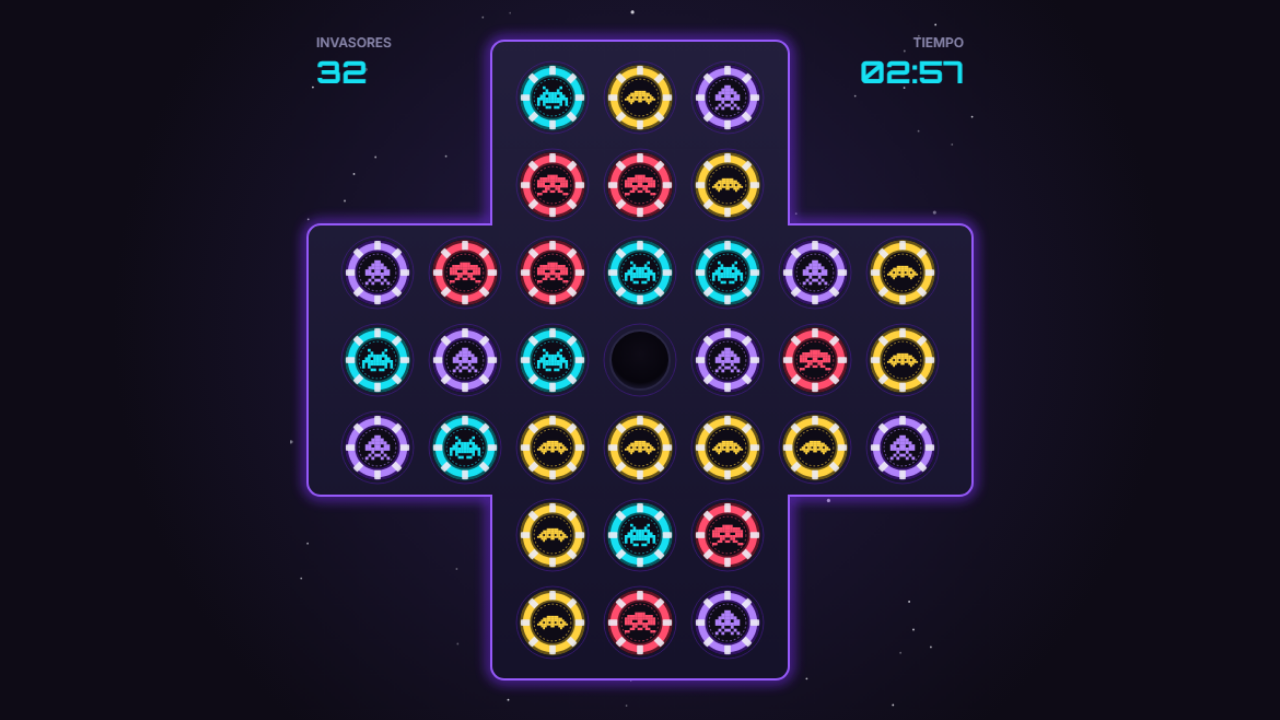
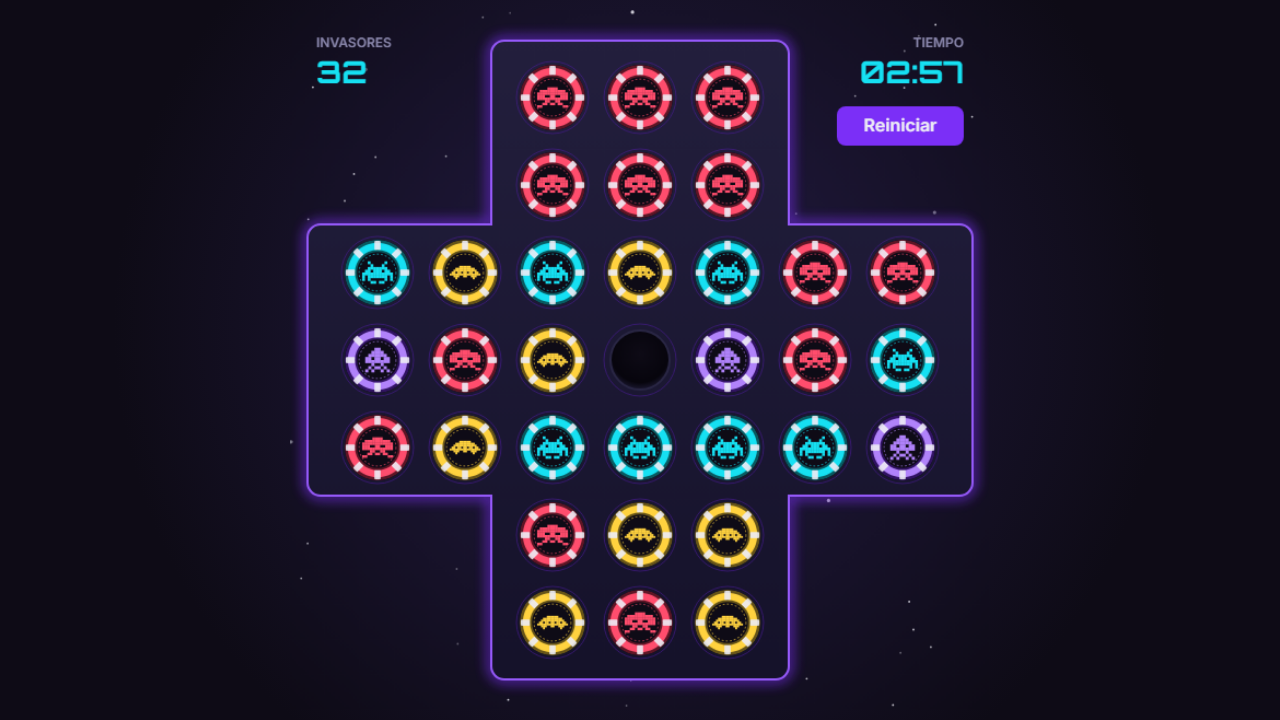
TPE4: botones Jugar y Reiniciar dibujados en el canvas

diff --git a/TP4/EntregaFinal/js/peg/Controlador.js b/TP4/EntregaFinal/js/peg/Controlador.js
@@ -21,21 +21,21 @@ const DURACION_VUELTA = 0.2; // segundos que tarda una ficha soltada en lugar in
 const DURACION_EXPLOSION = 0.4; // segundos de la explosión del invasor comido
 
 // Carteles del canvas
-const MENSAJE_INICIO = { titulo: "Invasión Pixel", detalle: "Apretá Jugar para empezar", tipo: "inicio" };
+const MENSAJE_INICIO = { titulo: "Invasión Pixel", detalle: "Dejá un solo invasor antes de que se acabe el tiempo", tipo: "inicio", boton: "Jugar" };
 
 class Controlador {
-  // Recibe la Vista, el canvas y el botón Jugar/Reiniciar. El juego arranca esperando:
-  // tablero vacío (sin Tablero) y el cartel de inicio.
-  constructor(vista, canvas, botonJugar) {
+  // Recibe la Vista y el canvas. El juego arranca esperando:
+  // tablero vacío (sin Tablero) y el cartel de inicio con el botón Jugar.
+  constructor(vista, canvas) {
     this.vista = vista;
     this.canvas = canvas;
-    this.botonJugar = botonJugar;
 
     this.tablero = null;
     this.estado = "esperando"; // "esperando" | "jugando" | "terminado"
     this.arrastre = null; // { ficha, x, y, destinos, sobre } mientras se arrastra una ficha
     this.volviendo = null; // { ficha, desdeX, desdeY, x, y, inicio } ficha que vuelve a su lugar
     this.sobre = null; // ficha bajo el mouse (se resalta para avisar que se puede agarrar)
+    this.botonSobre = null; // "panel", "hud" o null: botón del canvas bajo el mouse
     this.explosiones = []; // { x, y, tipo, inicio } invasores recién comidos
     this.inicio = 0; // momento en que arrancó la partida (en ms, como lo da requestAnimationFrame)
     this.restante = TIEMPO_LIMITE;
@@ -52,7 +52,6 @@ class Controlador {
     // move y up van en window: si el mouse se sale del canvas con la ficha, se sigue arrastrando
     window.addEventListener("mousemove", (e) => this.onMouseMove(e));
     window.addEventListener("mouseup", (e) => this.onMouseUp(e));
-    this.botonJugar.addEventListener("click", () => this.reiniciar());
     requestAnimationFrame(this.loop);
   }
 
@@ -67,7 +66,7 @@ class Controlador {
     this.inicio = performance.now();
     this.restante = TIEMPO_LIMITE;
     this.mensaje = null;
-    this.botonJugar.textContent = "Reiniciar";
+    this.botonSobre = null;
   }
 
   // Posición del mouse en píxeles DEL CANVAS. Es la misma cuenta que piezaEn de Blocka:
@@ -88,11 +87,25 @@ class Controlador {
     return this.tablero.fichaEn(fila, columna);
   }
 
-  // mousedown: encontrar la ficha y levantarla (feedback: se agranda y tiene sombra)
-  // y calcular a dónde puede saltar (para dibujar los hints)
+  // El botón del canvas que está en (x, y), o null. Solo cuenta el que se está viendo:
+  // con cartel, el del cartel ("panel"); jugando, el Reiniciar de abajo del reloj ("hud").
+  botonEn(x, y) {
+    if (this.mensaje) return Vista.dentroDe(BOTONES.panel, x, y) ? "panel" : null;
+    if (this.estado === "jugando") return Vista.dentroDe(BOTONES.hud, x, y) ? "hud" : null;
+    return null;
+  }
+
+  // mousedown: primero se fija si se tocó un botón (Jugar / Reiniciar → partida nueva).
+  // Si no, encuentra la ficha y la levanta (feedback: se agranda y tiene sombra)
+  // y calcula a dónde puede saltar (para dibujar los hints).
   onMouseDown(e) {
-    if (this.estado !== "jugando" || e.button !== 0) return; // solo clic izquierdo
+    if (e.button !== 0) return; // solo clic izquierdo
     const { x, y } = this.posicionMouse(e);
+    if (this.botonEn(x, y)) {
+      this.reiniciar();
+      return;
+    }
+    if (this.estado !== "jugando") return;
     const ficha = this.fichaEn(x, y);
     if (!ficha || ficha === this.volviendo?.ficha) return;
 
@@ -103,9 +116,9 @@ class Controlador {
   }
 
   // mousemove: si se arrastra una ficha, sigue al mouse y se marca el destino que tiene abajo.
-  // Si no se arrastra nada, solo se resalta la ficha bajo el mouse (cursor "manito").
+  // Si no se arrastra nada, se resalta lo que está bajo el mouse: un botón o una ficha
+  // (el cursor cambia a "mano" para avisar que se puede tocar o agarrar).
   onMouseMove(e) {
-    if (this.estado !== "jugando") return;
     const { x, y } = this.posicionMouse(e);
 
     if (this.arrastre) {
@@ -115,8 +128,11 @@ class Controlador {
       return;
     }
 
-    this.sobre = this.fichaEn(x, y);
-    this.canvas.style.cursor = this.sobre ? "grab" : "default";
+    this.botonSobre = this.botonEn(x, y);
+    this.sobre = this.estado === "jugando" && !this.botonSobre ? this.fichaEn(x, y) : null;
+    if (this.botonSobre) this.canvas.style.cursor = "pointer";
+    else if (this.sobre) this.canvas.style.cursor = "grab";
+    else this.canvas.style.cursor = "default";
   }
 
   // mouseup: si se soltó sobre un destino válido, el Tablero hace el salto y se revisa
@@ -155,12 +171,14 @@ class Controlador {
         titulo: "¡Ganaste!",
         detalle: enElCentro ? "Perfecto: el último invasor quedó en el centro" : "Detuviste la invasión: quedó un solo invasor",
         tipo: "victoria",
+        boton: "Jugar de nuevo",
       });
     } else if (!this.tablero.hayMovimientos()) {
       this.terminar({
         titulo: "Sin movimientos",
-        detalle: `Quedaron ${cantidad} invasores. Apretá Reiniciar para volver a jugar`,
+        detalle: `Ningún invasor puede saltar. Quedaron ${cantidad}`,
         tipo: "derrota",
+        boton: "Jugar de nuevo",
       });
     }
   }
@@ -185,8 +203,9 @@ class Controlador {
       if (this.restante === 0) {
         this.terminar({
           titulo: "¡Se acabó el tiempo!",
-          detalle: `Quedaron ${this.tablero.cantidadFichas()} invasores. Apretá Reiniciar para volver a jugar`,
+          detalle: `Quedaron ${this.tablero.cantidadFichas()} invasores en el tablero`,
           tipo: "derrota",
+          boton: "Jugar de nuevo",
         });
       }
     }
@@ -203,6 +222,7 @@ class Controlador {
       tiempo,
       restante: this.restante,
       mensaje: this.mensaje,
+      botonSobre: this.botonSobre,
     });
     requestAnimationFrame(this.loop);
   }

diff --git a/TP4/EntregaFinal/js/peg/Vista.js b/TP4/EntregaFinal/js/peg/Vista.js
@@ -15,12 +15,21 @@ const MARGEN = 40;
 const LADO_CANVAS = MARGEN * 2 + CASILLA * TAMANIO;
 const RADIO_FICHA = 30;
 
+// Botones dibujados en el canvas (rectángulos: esquina de arriba a la izquierda + medidas).
+// panel: adentro del cartel de inicio/fin ("Jugar"). hud: abajo del reloj, mientras se juega ("Reiniciar").
+const BOTONES = {
+  panel: { x: 240, y: 500, ancho: 160, alto: 44 },
+  hud: { x: 500, y: 88, ancho: 116, alto: 36, texto: "Reiniciar" },
+};
+
 // Colores del Design System (base.css): el canvas no puede leer las variables CSS
 const COLOR_TEXTO = "#EDECF5"; // --texto
 const COLOR_TEXTO_SECUNDARIO = "#8B88AD"; // --texto-secundario
 const COLOR_SECUNDARIO = "#16E0F2"; // --secundario
 const COLOR_ERROR = "#FF4D6D"; // --error
 const COLOR_EXITO = "#3DDC97"; // --exito
+const COLOR_PRIMARIO = "#7B2FF7"; // --primario (botones)
+const COLOR_PRIMARIO_LUZ = "#9559F9"; // --primario-luz-20 (botón con el mouse encima)
 
 // Color de cada invasor: se usa si su imagen no cargó y en las explosiones
 const COLORES_FICHA = {
@@ -74,9 +83,15 @@ class Vista {
     };
   }
 
+  // ¿El punto (x, y) cae adentro del botón? Es la misma idea que encontrar una figura con el mouse
+  static dentroDe(boton, x, y) {
+    return x >= boton.x && x <= boton.x + boton.ancho && y >= boton.y && y <= boton.y + boton.alto;
+  }
+
   // Dibuja un cuadro completo, de atrás para adelante (lo último que se dibuja queda arriba):
   // fondo → fichas quietas → explosiones → hints → ficha que vuelve → ficha arrastrada → HUD → mensaje
-  dibujar({ tablero, arrastre, volviendo, sobre, explosiones, tiempo, restante, mensaje }) {
+  // botonSobre = "panel", "hud" o null: el botón que tiene el mouse encima (se dibuja más claro)
+  dibujar({ tablero, arrastre, volviendo, sobre, explosiones, tiempo, restante, mensaje, botonSobre }) {
     const ctx = this.ctx;
     ctx.clearRect(0, 0, this.canvas.width, this.canvas.height);
     ctx.drawImage(this.imagenes.fondo, 0, 0, this.canvas.width, this.canvas.height);
@@ -99,7 +114,9 @@ class Vista {
 
     // Antes de la primera partida no hay Tablero: en vez de un número se muestra una raya
     this.dibujarHud(tablero ? tablero.cantidadFichas() : "—", restante);
-    if (mensaje) this.dibujarMensaje(mensaje);
+    // Con cartel, el botón está en el cartel; sin cartel (jugando), Reiniciar va abajo del reloj
+    if (mensaje) this.dibujarMensaje(mensaje, botonSobre === "panel");
+    else this.dibujarBoton(BOTONES.hud, BOTONES.hud.texto, botonSobre === "hud");
   }
 
   // Dibuja una ficha con su imagen recortada en círculo.
@@ -231,17 +248,17 @@ class Vista {
 
   // Cartel de inicio y fin de partida: un recuadro abajo del centro, sin tapar el resto,
   // para que se sigan viendo los invasores que quedaron (sobre todo el del centro).
-  // mensaje = { titulo, detalle, tipo }; el tipo decide el color del título y del borde.
-  dibujarMensaje({ titulo, detalle, tipo }) {
+  // mensaje = { titulo, detalle, tipo, boton }; el tipo decide el color del título y del borde,
+  // y boton es el texto del botón del cartel ("Jugar" o "Jugar de nuevo").
+  dibujarMensaje({ titulo, detalle, tipo, boton }, botonResaltado) {
     const ctx = this.ctx;
     const colores = { inicio: COLOR_TEXTO, victoria: COLOR_EXITO, derrota: COLOR_ERROR };
-    const centroY = 470;
     ctx.save();
     ctx.fillStyle = "rgba(27, 24, 48, 0.95)"; // --superficie
     ctx.strokeStyle = colores[tipo];
     ctx.lineWidth = 2;
     ctx.beginPath();
-    ctx.roundRect(60, centroY - 56, LADO_CANVAS - 120, 112, 16);
+    ctx.roundRect(60, 392, LADO_CANVAS - 120, 172, 16);
     ctx.fill();
     ctx.stroke();
 
@@ -249,11 +266,31 @@ class Vista {
     ctx.textBaseline = "middle";
     ctx.font = "700 28px Orbitron, sans-serif";
     ctx.fillStyle = colores[tipo];
-    ctx.fillText(titulo, LADO_CANVAS / 2, centroY - 18);
+    ctx.fillText(titulo, LADO_CANVAS / 2, 428);
 
     ctx.font = "400 16px Inter, sans-serif";
     ctx.fillStyle = COLOR_TEXTO;
-    ctx.fillText(detalle, LADO_CANVAS / 2, centroY + 22);
+    ctx.fillText(detalle, LADO_CANVAS / 2, 468);
+    ctx.restore();
+
+    this.dibujarBoton(BOTONES.panel, boton, botonResaltado);
+  }
+
+  // Botón dibujado: rectángulo redondeado violeta con el texto centrado.
+  // resaltado = true → el mouse está encima: violeta más claro (feedback de que se puede tocar)
+  dibujarBoton(boton, texto, resaltado) {
+    const ctx = this.ctx;
+    ctx.save();
+    ctx.fillStyle = resaltado ? COLOR_PRIMARIO_LUZ : COLOR_PRIMARIO;
+    ctx.beginPath();
+    ctx.roundRect(boton.x, boton.y, boton.ancho, boton.alto, 8);
+    ctx.fill();
+
+    ctx.textAlign = "center";
+    ctx.textBaseline = "middle";
+    ctx.font = "600 16px Inter, sans-serif";
+    ctx.fillStyle = COLOR_TEXTO;
+    ctx.fillText(texto, boton.x + boton.ancho / 2, boton.y + boton.alto / 2);
     ctx.restore();
   }
 }

diff --git a/TP4/EntregaFinal/juego.html b/TP4/EntregaFinal/juego.html
@@ -34,8 +34,8 @@
           <canvas class="peg__lienzo" id="lienzo" aria-label="Peg Solitaire: arrastrá un invasor por encima de otro hasta un hueco vacío"></canvas>
         </div>
 
+        <!-- Jugar y Reiniciar no están acá: se dibujan adentro del canvas (Vista.dibujarBoton) -->
         <div class="juego__botones">
-          <button class="boton boton--primario" id="jugar" type="button">Jugar</button>
           <div class="compartir">
             <button class="boton boton--secundario" id="abrir-compartir" type="button" aria-expanded="false" aria-controls="popover-compartir">Compartir</button>
             <div class="compartir__popover" id="popover-compartir" hidden>
@@ -72,7 +72,7 @@
 
         <section class="ayuda__bloque">
           <h2 class="ayuda__titulo">Tiempo</h2>
-          <p>Tenés <b>3 minutos</b> por partida: el reloj está arriba a la derecha y se pone rojo en los últimos 30 segundos. Con <b>Reiniciar</b> empezás de nuevo cuando quieras.</p>
+          <p>Tenés <b>3 minutos</b> por partida: el reloj está arriba a la derecha y se pone rojo en los últimos 30 segundos. Con <b>Reiniciar</b>, abajo del reloj, empezás de nuevo cuando quieras.</p>
         </section>
 
         <section class="ayuda__bloque">
@@ -221,8 +221,8 @@
        porque cada archivo usa clases o constantes de los anteriores -->
   <script src="js/peg/Ficha.js?v=1"></script>
   <script src="js/peg/Tablero.js?v=1"></script>
-  <script src="js/peg/Vista.js?v=1"></script>
-  <script src="js/peg/Controlador.js?v=1"></script>
-  <script src="js/juego.js?v=9"></script>
+  <script src="js/peg/Vista.js?v=2"></script>
+  <script src="js/peg/Controlador.js?v=2"></script>
+  <script src="js/juego.js?v=10"></script>
 </body>
 </html>

diff --git a/TP4/EntregaFinal/js/juego.js b/TP4/EntregaFinal/js/juego.js
@@ -43,12 +43,12 @@ async function cargarImagenesPeg() {
 }
 
 // Arma el juego: Vista (dibuja) + Controlador (eventos y loop). El Tablero lo crea
-// el Controlador cuando se aprieta Jugar; hasta entonces se ve el tablero vacío.
+// el Controlador cuando se aprieta Jugar (botón dibujado en el canvas); hasta entonces se ve el tablero vacío.
 async function iniciarJuego() {
   const canvas = document.getElementById("lienzo");
   const imagenes = await cargarImagenesPeg();
   const vista = new Vista(canvas, imagenes);
-  const controlador = new Controlador(vista, canvas, document.getElementById("jugar"));
+  const controlador = new Controlador(vista, canvas);
   controlador.iniciar();
 }
 
